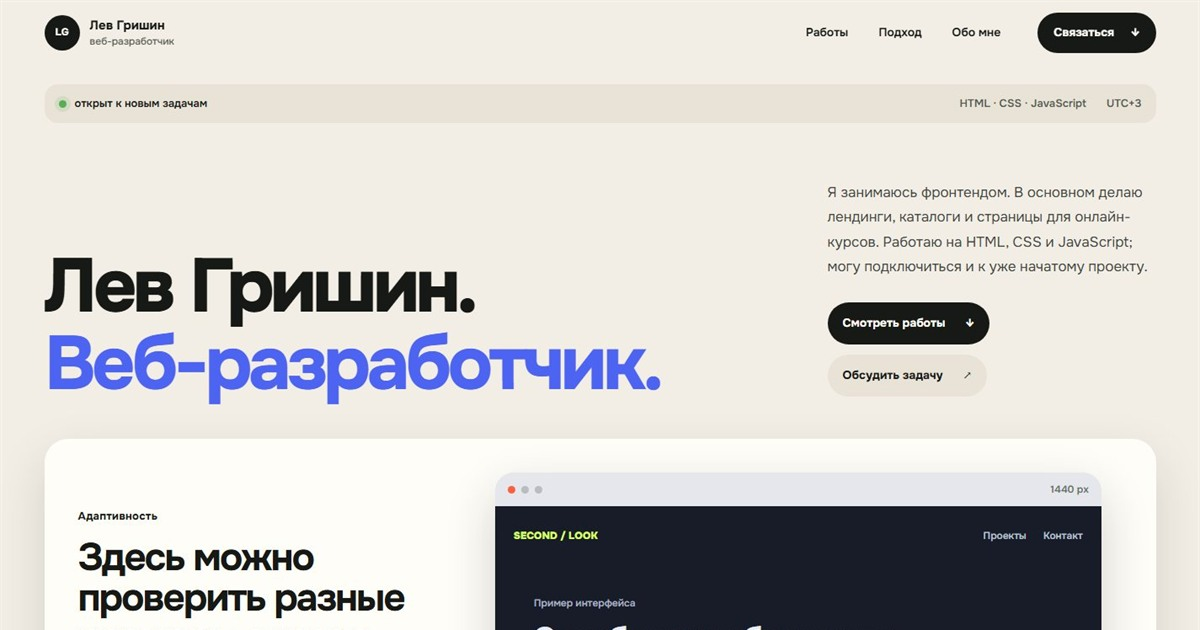
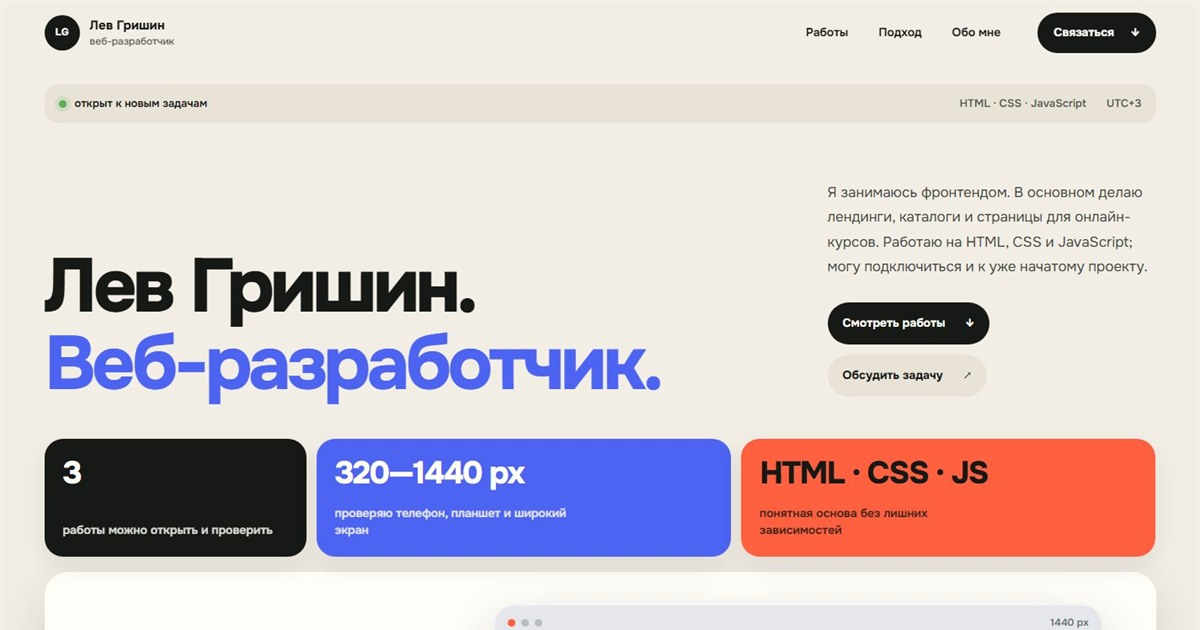
Add denser portfolio showcase

Changed region(s): [[0.0308, 0.6937, 0.9867, 1.0]]

diff --git a/styles.css b/styles.css
@@ -91,6 +91,12 @@ img { max-width: 100%; display: block; }
 .button, .text-link { min-height: 50px; padding: 13px 18px; border-radius: 999px; display: inline-flex; align-items: center; justify-content: center; gap: 24px; font-size: 14px; font-weight: 700; text-decoration: none; transition: transform .2s ease, box-shadow .2s ease, background .2s ease; }
 .button-dark { color: var(--paper-2); background: var(--ink); }
 .text-link { color: var(--ink); background: var(--surface); }
+.hero-proof { margin: 0 0 18px; padding: 0; display: grid; grid-template-columns: .72fr 1.14fr 1.14fr; gap: 12px; }
+.hero-proof div { min-height: 128px; padding: 22px; border-radius: 22px; display: flex; flex-direction: column; justify-content: space-between; color: var(--paper-2); background: var(--ink); box-shadow: 0 12px 30px rgba(28, 31, 26, .08); }
+.hero-proof div:nth-child(2) { background: var(--blue); }
+.hero-proof div:nth-child(3) { color: var(--ink); background: var(--orange); }
+.hero-proof dt { font-size: clamp(28px, 2.6vw, 38px); font-weight: 780; line-height: 1; letter-spacing: -.045em; }
+.hero-proof dd { max-width: 290px; margin: 18px 0 0; font-size: 14px; font-weight: 620; line-height: 1.45; opacity: .84; }
 
 .viewport-lab { min-height: 450px; padding: clamp(26px, 3vw, 40px); border-radius: 28px; display: grid; grid-template-columns: minmax(280px, .7fr) minmax(480px, 1.3fr); align-items: center; gap: clamp(32px, 4.2vw, 56px); overflow: hidden; background: var(--paper-2); box-shadow: var(--shadow); }
 .lab-copy h2 { max-width: 480px; margin: 14px 0 18px; font-size: clamp(32px, 3.3vw, 46px); line-height: 1.06; letter-spacing: -.045em; text-wrap: balance; }
@@ -144,10 +150,32 @@ img { max-width: 100%; display: block; }
 .work-heading h2 { margin: 12px 0 0; font-size: clamp(48px, 5.8vw, 76px); line-height: .98; letter-spacing: -.05em; }
 .work-heading h2 span { color: #a7ada3; }
 .work-intro { max-width: 380px; margin: 0 0 4px; color: #b9beb6; font-size: 15px; line-height: 1.65; }
-.project { padding: 60px 0 70px; overflow: hidden; }
+.work-index { padding: 0 0 76px; display: grid; grid-template-columns: repeat(3, minmax(0, 1fr)); gap: 16px; }
+.work-card { min-height: 390px; padding: 22px; border-radius: 28px; position: relative; display: flex; flex-direction: column; overflow: hidden; color: var(--paper-2); background: #282b27; text-decoration: none; box-shadow: 0 20px 46px rgba(0,0,0,.14); transition: transform .3s var(--ease-standard), box-shadow .3s ease; }
+.work-card-hottour { color: var(--ink); background: var(--orange); }
+.work-card-second-look { background: var(--blue); }
+.work-card-top { display: flex; align-items: center; justify-content: space-between; gap: 14px; font-size: 13px; font-weight: 700; opacity: .78; }
+.work-card-top b { width: 34px; height: 34px; display: grid; place-items: center; border-radius: 11px; background: rgba(255,255,255,.12); }
+.work-card-hottour .work-card-top b { background: rgba(21,23,20,.1); }
+.work-card > strong { margin-top: 17px; color: var(--violet); font-size: clamp(27px, 2.3vw, 34px); line-height: 1.05; letter-spacing: -.04em; }
+.work-card-hottour > strong { color: var(--ink); }
+.work-card-second-look > strong { color: var(--lime); }
+.work-card-copy { max-width: 320px; margin-top: 9px; font-size: 15px; line-height: 1.5; opacity: .78; }
+.work-card-visual { height: 154px; margin: 22px -5px 15px; border-radius: 18px; display: block; overflow: hidden; background: #111722; box-shadow: 0 16px 34px rgba(0,0,0,.18); }
+.work-card-visual img { width: 100%; height: 100%; object-fit: cover; object-position: top; transition: transform .55s var(--ease-out); }
+.work-card-analyzer { min-height: 154px; margin: 22px -5px 15px; padding: 18px; border-radius: 18px; display: grid; grid-template-columns: 112px 1fr; align-items: center; gap: 18px; color: var(--ink); background: var(--lime); box-shadow: 0 16px 34px rgba(23,31,92,.2); }
+.work-card-analyzer > b { font-size: 52px; line-height: .9; letter-spacing: -.06em; }
+.work-card-analyzer small { font-size: 14px; letter-spacing: 0; }
+.work-card-analyzer > span { display: grid; gap: 9px; }
+.work-card-analyzer i { height: 27px; border-radius: 9px; display: block; background: rgba(255,255,255,.58); }
+.work-card-analyzer i:nth-child(2) { width: 82%; }
+.work-card-analyzer i:nth-child(3) { width: 64%; }
+.work-card-link { margin-top: auto; display: flex; align-items: center; justify-content: space-between; gap: 16px; font-size: 14px; font-weight: 750; }
+.work-card-link i { font-style: normal; transition: transform .22s var(--ease-standard); }
+.project { padding: 60px 0 70px; overflow: hidden; scroll-margin-top: 86px; }
 .project-course { --project-accent: var(--violet); background: #1c1f1b; }
-.project-hottour { --project-accent: var(--orange); color: var(--ink); background: #eee7dc; }
-.project-second-look { --project-accent: var(--lime); color: var(--paper-2); background: var(--blue); }
+.project-hottour { --project-accent: var(--orange); margin-top: -34px; padding-top: 94px; position: relative; border-radius: 44px 44px 0 0; color: var(--ink); background: #eee7dc; }
+.project-second-look { --project-accent: var(--lime); margin-top: -34px; padding-top: 94px; position: relative; border-radius: 44px 44px 0 0; color: var(--paper-2); background: var(--blue); }
 .project-top { display: flex; align-items: center; justify-content: space-between; flex-wrap: wrap; gap: 10px; font-size: 13px; font-weight: 700; }
 .project-top span { padding: 9px 13px; border-radius: 999px; background: rgba(255,255,255,.1); }
 .project-hottour .project-top span { background: rgba(21,23,20,.08); }
@@ -161,10 +189,21 @@ img { max-width: 100%; display: block; }
 .project-tags li { min-height: 32px; padding: 7px 11px; border-radius: 999px; display: inline-flex; align-items: center; color: #d8dcd5; background: rgba(255,255,255,.09); font-size: 12px; font-weight: 650; }
 .project-hottour .project-tags li { color: #4a5049; background: rgba(21,23,20,.08); }
 .project-second-look .project-tags li { color: var(--paper-2); background: rgba(255,255,255,.16); }
-.project-window { width: min(1180px, 100%); margin-inline: auto; overflow: hidden; border-radius: 24px; background: #e5e7ec; box-shadow: 0 28px 72px rgba(0,0,0,.23); }
+.project-scene { width: min(1260px, 100%); margin-inline: auto; padding: 18px; border-radius: 34px; display: grid; grid-template-columns: minmax(0, 1fr) 214px; align-items: stretch; gap: 16px; background: linear-gradient(145deg, #a08cff, #6f5ada); box-shadow: 0 28px 72px rgba(0,0,0,.22); }
+.project-scene-hottour { grid-template-columns: 214px minmax(0, 1fr); background: linear-gradient(145deg, #ff846c, #ef593d); box-shadow: 0 28px 72px rgba(41, 35, 28, .16); }
+.project-scene-hottour .scene-notes { order: -1; }
+.project-window { width: 100%; margin: 0; align-self: stretch; overflow: hidden; border-radius: 24px; background: #e5e7ec; box-shadow: 0 20px 48px rgba(0,0,0,.22); transition: transform .38s var(--ease-out), box-shadow .3s ease; }
 .project-hottour .project-window { box-shadow: 0 28px 72px rgba(41, 35, 28, .15); }
 .window-bar { height: 42px; color: #5f675f; background: #edf0ee; }
 .project-window img { width: 100%; height: auto; aspect-ratio: 16 / 10; object-fit: cover; object-position: top; background: #0d1422; transition: transform .6s var(--ease-out); }
+.scene-notes { display: grid; grid-template-rows: 1fr 1fr; gap: 12px; }
+.scene-notes div { min-width: 0; padding: 19px; border-radius: 21px; display: flex; flex-direction: column; justify-content: flex-end; color: var(--paper-2); background: rgba(25,27,24,.92); transition: transform .28s var(--ease-standard); }
+.project-scene-course .scene-notes div:last-child { color: var(--ink); background: var(--lime); }
+.project-scene-hottour .scene-notes div { color: var(--ink); background: var(--paper-2); }
+.project-scene-hottour .scene-notes div:last-child { color: var(--paper-2); background: var(--ink); }
+.scene-notes span { font-size: 12px; font-weight: 700; opacity: .68; }
+.scene-notes b { margin: 9px 0 8px; font-size: 22px; line-height: 1.08; letter-spacing: -.035em; overflow-wrap: anywhere; }
+.scene-notes p { margin: 0; font-size: 13px; line-height: 1.48; opacity: .74; }
 .project-details { width: min(1180px, 100%); margin-inline: auto; padding-top: 32px; display: grid; grid-template-columns: minmax(0, 1fr) minmax(400px, .88fr); align-items: start; gap: 52px; }
 .project-story > p:not(.kicker) { max-width: 660px; margin: 13px 0 22px; font-size: 16px; line-height: 1.72; }
 .project-actions { display: flex; align-items: center; flex-wrap: wrap; gap: 10px; }
@@ -199,10 +238,12 @@ img { max-width: 100%; display: block; }
 .about-copy { padding: 34px 0 30px; display: grid; grid-template-columns: 1fr 1fr; gap: 16px; }
 .about-copy p { max-width: none; margin: 0; padding: 24px; border-radius: 20px; color: #3f443e; background: var(--paper-2); font-size: 16px; line-height: 1.7; }
 .capabilities { display: grid; grid-template-columns: repeat(3, 1fr); gap: 16px; }
-.capabilities div { min-height: 178px; padding: 24px; border-radius: 20px; display: flex; flex-direction: column; background: var(--surface); }
+.capabilities div { min-height: 188px; padding: 24px; border-radius: 20px; display: flex; flex-direction: column; background: #ffdcd3; box-shadow: 0 12px 28px rgba(29, 32, 27, .07); transition: transform .26s var(--ease-standard), box-shadow .26s ease; }
+.capabilities div:nth-child(2) { color: var(--paper-2); background: var(--blue); }
+.capabilities div:nth-child(3) { background: var(--lime); }
 .capabilities span { font-size: 13px; font-weight: 750; }
 .capabilities b { margin: auto 0 10px; font-size: 23px; letter-spacing: -.03em; }
-.capabilities p { max-width: 340px; margin: 0; color: var(--muted); font-size: 15px; line-height: 1.6; }
+.capabilities p { max-width: 340px; margin: 0; color: inherit; font-size: 15px; line-height: 1.6; opacity: .72; }
 
 .contact { margin-bottom: 24px; padding: clamp(42px, 5vw, 64px); border-radius: 30px; display: grid; grid-template-columns: minmax(0, 1fr) minmax(340px, 420px); align-items: center; gap: 14px clamp(38px, 5vw, 72px); overflow: hidden; color: var(--paper-2); background: var(--ink); }
 .contact > :is(.kicker, h2, p) { grid-column: 1; }
@@ -232,17 +273,22 @@ img { max-width: 100%; display: block; }
   .header-cta:hover { color: var(--ink); background: var(--orange); transform: translateY(-2px); }
   .button:hover, .text-link:hover, .project-link:hover, .contact-link:hover { transform: translateY(-2px); box-shadow: 0 12px 26px rgba(18,22,18,.16); }
   :is(.button, .text-link, .project-link, .contact-link):hover > [aria-hidden="true"] { transform: translateX(3px); }
+  .work-card:hover { transform: translateY(-5px); box-shadow: 0 28px 60px rgba(0,0,0,.22); }
+  .work-card:hover .work-card-visual img { transform: scale(1.035); }
+  .work-card:hover .work-card-link i { transform: translateY(4px); }
   .project-link-secondary:hover { color: var(--ink); background: var(--paper-2); }
   .contact-link-secondary:hover { color: var(--ink); background: var(--lime); }
   .viewport-controls button:hover { transform: translateY(-2px); }
-  .project-window.is-visible:hover { transform: translateY(-3px); box-shadow: 0 32px 78px rgba(0,0,0,.25); }
-  .project-window:hover img { transform: scale(1.012); }
+  .project-scene.is-visible:hover .project-window { transform: translateY(-3px); box-shadow: 0 28px 60px rgba(0,0,0,.26); }
+  .project-scene:hover .project-window img { transform: scale(1.012); }
+  .scene-notes div:hover, .capabilities div:hover { transform: translateY(-3px); }
+  .capabilities div:hover { box-shadow: 0 18px 36px rgba(29, 32, 27, .12); }
   .project-stats div:hover { transform: translateY(-2px); background: rgba(255,255,255,.13); }
   .project-hottour .project-stats div:hover { background: rgba(21,23,20,.12); }
 }
 
 :is(.button, .text-link, .project-link, .contact-link) > [aria-hidden="true"] { transition: transform .22s var(--ease-standard); }
-.project-window[data-reveal] { transition: opacity .42s ease, transform .56s var(--ease-out), box-shadow .3s ease; }
+.project-scene[data-reveal] { transition: opacity .42s ease, transform .56s var(--ease-out), box-shadow .3s ease; }
 
 @media (max-width: 1080px) {
   .hero-grid { grid-template-columns: 1fr; gap: 30px; }
@@ -252,7 +298,14 @@ img { max-width: 100%; display: block; }
   .lab-stage { min-height: 360px; }
   .section-heading { grid-template-columns: 130px 1fr; }
   .section-heading > p:last-child { grid-column: 2; max-width: 620px; }
+  .work-index { grid-template-columns: 1fr 1fr; }
+  .work-card-second-look { grid-column: 1 / -1; min-height: 350px; }
+  .work-card-second-look .work-card-analyzer { grid-template-columns: 150px 1fr; }
   .project-title-row { grid-template-columns: minmax(0, 1fr) 320px; }
+  .project-scene, .project-scene-hottour { grid-template-columns: 1fr; }
+  .project-scene-hottour .scene-notes { order: initial; }
+  .scene-notes { grid-template-columns: 1fr 1fr; grid-template-rows: none; }
+  .scene-notes div { min-height: 142px; }
   .project-details { grid-template-columns: 1fr; gap: 34px; }
   .second-look-preview { grid-template-columns: 180px 1fr; }
   .preview-flags { grid-column: 1 / -1; grid-template-columns: repeat(3, 1fr); }
@@ -282,6 +335,10 @@ img { max-width: 100%; display: block; }
   .hero-title { font-size: clamp(42px, 11.8vw, 58px); line-height: .98; letter-spacing: -.05em; }
   .hero-accent { margin-left: 0; }
   .hero-intro > p { font-size: 16px; }
+  .hero-proof { grid-template-columns: 1fr 1fr; }
+  .hero-proof div { min-height: 132px; padding: 18px; }
+  .hero-proof div:nth-child(3) { grid-column: 1 / -1; }
+  .hero-proof dt { font-size: 27px; }
   .viewport-lab { min-height: 0; padding: 22px; border-radius: 24px; gap: 25px; }
   .lab-copy h2 { font-size: 30px; line-height: 1.08; }
   .viewport-controls { display: grid; grid-template-columns: repeat(3, 1fr); }
@@ -300,7 +357,11 @@ img { max-width: 100%; display: block; }
   .work-heading { padding: 52px 0 36px; display: block; }
   .work-heading h2 { font-size: 44px; }
   .work-intro { margin-top: 16px; font-size: 14px; }
+  .work-index { padding-bottom: 60px; grid-template-columns: 1fr; }
+  .work-card, .work-card-second-look { min-height: 370px; grid-column: auto; }
+  .work-card-second-look .work-card-analyzer { grid-template-columns: 112px 1fr; }
   .project { padding: 48px 0 56px; }
+  .project-hottour, .project-second-look { margin-top: -22px; padding-top: 70px; border-radius: 30px 30px 0 0; }
   .project-top { align-items: flex-start; flex-direction: column; font-size: 12px; }
   .project-title-row { padding: 23px 0 25px; grid-template-columns: 1fr; gap: 16px; }
   .project-title-row h3 { font-size: clamp(38px, 12vw, 54px); overflow-wrap: normal; }
@@ -308,6 +369,11 @@ img { max-width: 100%; display: block; }
   .project-tags li { min-height: 30px; padding: 6px 9px; }
   .project-title-row p { font-size: 16px; }
   .project-window { border-radius: 17px; }
+  .project-scene { padding: 12px; border-radius: 24px; gap: 11px; }
+  .scene-notes { gap: 10px; }
+  .scene-notes div { min-height: 146px; padding: 15px; border-radius: 17px; }
+  .scene-notes b { font-size: 19px; }
+  .scene-notes p { font-size: 12px; }
   .window-bar { height: 38px; }
   .project-details { padding-top: 26px; gap: 27px; }
   .project-story > p:not(.kicker) { font-size: 15px; }
@@ -348,6 +414,13 @@ img { max-width: 100%; display: block; }
   .viewport-controls button { font-size: 12px; }
   .viewport-controls button span { font-size: 14px; }
   .lab-window.mode-mobile { --window-width: 62%; }
+  .hero-proof dd { font-size: 13px; }
+  .work-card { padding: 19px; border-radius: 24px; }
+  .work-card-analyzer { grid-template-columns: 92px 1fr; padding: 15px; }
+  .work-card-analyzer > b { font-size: 44px; }
+  .scene-notes { grid-template-columns: 1fr; }
+  .scene-notes div { min-height: 122px; }
+  .scene-notes p { font-size: 13px; }
   .work-heading h2 { font-size: 40px; }
   .project-title-row h3 { font-size: 39px; }
   .project-stats div { min-height: 102px; padding: 14px; }

diff --git a/index.html b/index.html
@@ -70,6 +70,12 @@
           </div>
         </div>
 
+        <dl class="hero-proof" data-reveal>
+          <div><dt>3</dt><dd>работы можно открыть и проверить</dd></div>
+          <div><dt>320—1440 px</dt><dd>проверяю телефон, планшет и широкий экран</dd></div>
+          <div><dt>HTML · CSS · JS</dt><dd>понятная основа без лишних зависимостей</dd></div>
+        </dl>
+
         <div class="viewport-lab" data-reveal>
           <div class="lab-copy">
             <p class="kicker">Адаптивность</p>
@@ -119,7 +125,31 @@
           <p class="work-intro">Курс, каталог и текстовый инструмент работают прямо в браузере. Кнопки ведут на живые версии.</p>
         </div>
 
-        <article class="project project-course">
+        <nav class="work-index shell" aria-label="Быстрый выбор проекта" data-reveal>
+          <a class="work-card work-card-course" href="#course">
+            <span class="work-card-top"><b>01</b><span>Онлайн-курс</span></span>
+            <strong>Понятный старт</strong>
+            <span class="work-card-copy">80 уроков, задания и прогресс без регистрации.</span>
+            <span class="work-card-visual"><img src="assets/course-cover.jpg" alt="" width="1440" height="900" decoding="async" /></span>
+            <span class="work-card-link">Смотреть кейс <i aria-hidden="true">↓</i></span>
+          </a>
+          <a class="work-card work-card-hottour" href="#hottour">
+            <span class="work-card-top"><b>02</b><span>Каталог туров</span></span>
+            <strong>HotTour</strong>
+            <span class="work-card-copy">Фильтры, избранное и заявка через WhatsApp.</span>
+            <span class="work-card-visual"><img src="assets/hottour-cover.jpg" alt="" width="1440" height="900" decoding="async" /></span>
+            <span class="work-card-link">Смотреть кейс <i aria-hidden="true">↓</i></span>
+          </a>
+          <a class="work-card work-card-second-look" href="#second-look">
+            <span class="work-card-top"><b>03</b><span>Инструмент</span></span>
+            <strong>Second Look</strong>
+            <span class="work-card-copy">Проверка русского текста прямо в браузере.</span>
+            <span class="work-card-analyzer" aria-hidden="true"><b>92<small>/100</small></b><span><i></i><i></i><i></i></span></span>
+            <span class="work-card-link">Смотреть кейс <i aria-hidden="true">↓</i></span>
+          </a>
+        </nav>
+
+        <article class="project project-course" id="course">
           <div class="project-inner shell">
             <header class="project-top" data-reveal>
               <span>01 / образовательный сайт</span>
@@ -132,9 +162,15 @@
               </div>
               <p>Сайт курса по партнёрской работе в iGaming. Внутри 80 уроков, задания и прогресс, который сохраняется в браузере.</p>
             </div>
-            <div class="project-visual project-window" data-reveal>
-              <div class="window-bar"><span></span><span></span><span></span><b>курс / главная</b></div>
-              <img src="assets/course-cover.jpg" alt="Главная страница интерактивного курса «Понятный старт»" width="1440" height="900" />
+            <div class="project-scene project-scene-course" data-reveal>
+              <div class="project-visual project-window">
+                <div class="window-bar"><span></span><span></span><span></span><b>курс / главная</b></div>
+                <img src="assets/course-cover.jpg" alt="Главная страница интерактивного курса «Понятный старт»" width="1440" height="900" />
+              </div>
+              <div class="scene-notes" aria-label="Основные функции курса">
+                <div><span>Навигация</span><b>8 модулей</b><p>Уроки собраны в понятную последовательность.</p></div>
+                <div><span>Прогресс</span><b>Сохраняется</b><p>Можно вернуться и продолжить с нужного места.</p></div>
+              </div>
             </div>
             <div class="project-details">
               <div class="project-story" data-reveal>
@@ -155,7 +191,7 @@
           </div>
         </article>
 
-        <article class="project project-hottour">
+        <article class="project project-hottour" id="hottour">
           <div class="project-inner shell">
             <header class="project-top" data-reveal>
               <span>02 / сайт туристического бюро</span>
@@ -168,9 +204,15 @@
               </div>
               <p>Сайт туристического бюро Ульяны Аникеевой. В каталоге 15 отелей; варианты можно отфильтровать и добавить в избранное.</p>
             </div>
-            <div class="project-visual project-window" data-reveal>
-              <div class="window-bar"><span></span><span></span><span></span><b>туризм / широкий экран</b></div>
-              <img src="assets/hottour-cover.jpg" alt="Главная страница сайта туристического бюро Ульяны Аникеевой" width="1440" height="900" decoding="async" />
+            <div class="project-scene project-scene-hottour" data-reveal>
+              <div class="project-visual project-window">
+                <div class="window-bar"><span></span><span></span><span></span><b>туризм / широкий экран</b></div>
+                <img src="assets/hottour-cover.jpg" alt="Главная страница сайта туристического бюро Ульяны Аникеевой" width="1440" height="900" decoding="async" />
+              </div>
+              <div class="scene-notes" aria-label="Основные функции HotTour">
+                <div><span>Выбор</span><b>Фильтры</b><p>Каталог быстро сужается до подходящих вариантов.</p></div>
+                <div><span>Заявка</span><b>В WhatsApp</b><p>Выбранный отель и данные собираются на сайте.</p></div>
+              </div>
             </div>
             <div class="project-details">
               <div class="project-story" data-reveal>
@@ -189,7 +231,7 @@
           </div>
         </article>
 
-        <article class="project project-second-look">
+        <article class="project project-second-look" id="second-look">
           <div class="project-inner shell">
             <header class="project-top" data-reveal>
               <span>03 / инструмент для текста</span>

diff --git a/SOURCES.md b/SOURCES.md
@@ -8,12 +8,18 @@
 2. [Dennis Snellenberg](https://dennissnellenberg.com/) — крупная типографика, работа как главный носитель истории и минимум декоративного шума. Портфолио отмечено [Awwwards](https://www.awwwards.com/sites/dennis-snellenberg).
 3. [Bruno Simon](https://bruno-simon.com/) — одна сильная интерактивная идея вместо набора случайных эффектов. Проект отмечен [Awwwards](https://www.awwwards.com/sites/brunos-portfolio), а исходный код нового портфолио [открыт на GitHub](https://github.com/brunosimon/folio-2025).
 4. [Olaolu](https://olaolu.dev/) — выразительная двухцветная система, человеческая подача и рассказ о ценности работы через реальные свойства продукта.
+5. [Rafael Conde](https://rafa.design/) — насыщенные цветовые сцены, где изображение и короткий текст образуют один проектный блок; [исходный код открыт на GitHub](https://github.com/rafaelconde/rafaelconde).
+6. [Dejan Marković](https://www.dejan.works/) — крупные рабочие изображения рядом с коротким объяснением роли и результата.
+7. [Tania Rascia](https://taniarascia.com/) — плотный каталог материалов и проектов с прямыми действиями «демо» и «код»; [исходный код открыт на GitHub](https://github.com/taniarascia/taniarascia.com).
+8. [Victor Eke](https://victoreke.com/projects) — компактная сетка проектов, в которой название и назначение считываются без открытия карточки; [исходный код открыт на GitHub](https://github.com/evavic44/victoreke.com).
 
 ## Что вошло в направление
 
 - сначала работы и проверяемые результаты, затем рассказ об авторе;
 - выразительный, но сдержанный заголовок с одной запоминающейся формулировкой;
 - отдельный цветовой характер у каждого кейса при общей сетке;
+- компактный индекс работ перед подробными кейсами;
+- крупный рабочий экран и функциональные подписи собраны в одну визуальную сцену;
 - одна содержательная интерактивная сцена в первом экране;
 - короткая анимация, которая помогает почувствовать иерархию и отключается по системной настройке;
 - никакой придуманной статистики об опыте, клиентах или коммерческих результатах.

diff --git a/AUDIT.md b/AUDIT.md
@@ -20,6 +20,9 @@
 - названия работ переведены из тяжёлого капслока в спокойный регистр, а вертикальные отступы уплотнены;
 - добавлены короткие переходы шапки, кнопок, обложек и интерактивного макета без непрерывного движения;
 - свободные зоны заполнены вводной к работам, стеком проектов и компактным контактным блоком вместо декоративного шума;
+- первый экран дополнен тремя проверяемыми фактами, а перед кейсами появился визуальный индекс всех работ;
+- скриншоты курса и HotTour собраны с функциональными подписями в плотные проектные сцены;
+- цветные секции кейсов слегка перекрывают друг друга, поэтому между работами нет пустых переходов;
 - Onest подключён локально, чтобы убрать внешний запрос и сдвиг макета во время загрузки;
 - добавлены прямые кнопки «Открыть курс», «Открыть HotTour» и «Открыть Second Look»;
 - курс и HotTour собраны в автономные статические демо с возвратом в портфолио;
